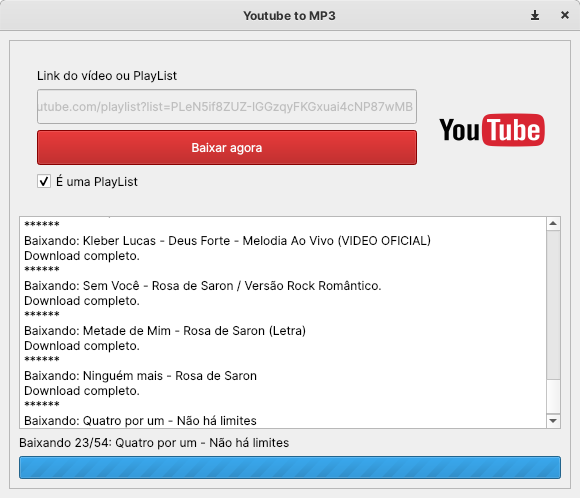
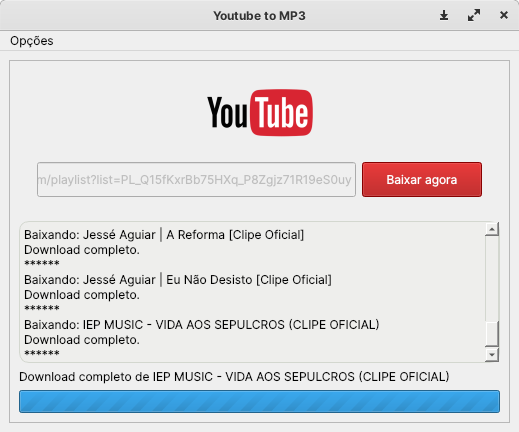
Change design

Changed region(s): [[0.0, 0.0, 1.0, 0.9931]]

diff --git a/views/ui_main.py b/views/ui_main.py
@@ -17,9 +17,9 @@ class Ui_MainWindow(object):
     def setupUi(self, MainWindow):
         if not MainWindow.objectName():
             MainWindow.setObjectName(u"MainWindow")
-        MainWindow.resize(580, 467)
-        MainWindow.setMinimumSize(QSize(580, 467))
-        MainWindow.setMaximumSize(QSize(580, 467))
+        MainWindow.resize(519, 401)
+        MainWindow.setMinimumSize(QSize(519, 200))
+        MainWindow.setMaximumSize(QSize(519, 401))
         self.actionDeveloper = QAction(MainWindow)
         self.actionDeveloper.setObjectName(u"actionDeveloper")
         self.actionExit = QAction(MainWindow)
@@ -40,60 +40,66 @@ class Ui_MainWindow(object):
         self.frame_4.setObjectName(u"frame_4")
         self.frame_4.setFrameShape(QFrame.NoFrame)
         self.frame_4.setFrameShadow(QFrame.Raised)
-        self.horizontalLayout_2 = QHBoxLayout(self.frame_4)
-        self.horizontalLayout_2.setObjectName(u"horizontalLayout_2")
-        self.frame_5 = QFrame(self.frame_4)
-        self.frame_5.setObjectName(u"frame_5")
-        self.frame_5.setFrameShape(QFrame.NoFrame)
-        self.frame_5.setFrameShadow(QFrame.Raised)
-        self.verticalLayout_4 = QVBoxLayout(self.frame_5)
-        self.verticalLayout_4.setObjectName(u"verticalLayout_4")
-        self.label = QLabel(self.frame_5)
-        self.label.setObjectName(u"label")
+        self.verticalLayout = QVBoxLayout(self.frame_4)
+        self.verticalLayout.setObjectName(u"verticalLayout")
+        self.frame_3 = QFrame(self.frame_4)
+        self.frame_3.setObjectName(u"frame_3")
+        self.frame_3.setFrameShape(QFrame.NoFrame)
+        self.frame_3.setFrameShadow(QFrame.Raised)
+        self.horizontalLayout_3 = QHBoxLayout(self.frame_3)
+        self.horizontalLayout_3.setObjectName(u"horizontalLayout_3")
+        self.horizontalSpacer = QSpacerItem(40, 20, QSizePolicy.Expanding, QSizePolicy.Minimum)
 
-        self.verticalLayout_4.addWidget(self.label)
+        self.horizontalLayout_3.addItem(self.horizontalSpacer)
 
-        self.leLink = QLineEdit(self.frame_5)
+        self.lbLogo = QLabel(self.frame_3)
+        self.lbLogo.setObjectName(u"lbLogo")
+        self.lbLogo.setMinimumSize(QSize(120, 50))
+        self.lbLogo.setMaximumSize(QSize(120, 50))
+        self.lbLogo.setPixmap(QPixmap(u"../assets/icon.png"))
+        self.lbLogo.setScaledContents(True)
+
+        self.horizontalLayout_3.addWidget(self.lbLogo)
+
+        self.horizontalSpacer_2 = QSpacerItem(40, 20, QSizePolicy.Expanding, QSizePolicy.Minimum)
+
+        self.horizontalLayout_3.addItem(self.horizontalSpacer_2)
+
+
+        self.verticalLayout.addWidget(self.frame_3)
+
+        self.frame_6 = QFrame(self.frame_4)
+        self.frame_6.setObjectName(u"frame_6")
+        self.frame_6.setFrameShape(QFrame.NoFrame)
+        self.frame_6.setFrameShadow(QFrame.Raised)
+        self.horizontalLayout_4 = QHBoxLayout(self.frame_6)
+        self.horizontalLayout_4.setObjectName(u"horizontalLayout_4")
+        self.leLink = QLineEdit(self.frame_6)
         self.leLink.setObjectName(u"leLink")
         self.leLink.setMinimumSize(QSize(0, 35))
         self.leLink.setMaximumSize(QSize(16777215, 35))
 
-        self.verticalLayout_4.addWidget(self.leLink)
+        self.horizontalLayout_4.addWidget(self.leLink)
 
-        self.btnDownload = QPushButton(self.frame_5)
+        self.btnDownload = QPushButton(self.frame_6)
         self.btnDownload.setObjectName(u"btnDownload")
-        self.btnDownload.setMinimumSize(QSize(0, 35))
-        self.btnDownload.setMaximumSize(QSize(16777215, 35))
+        self.btnDownload.setMinimumSize(QSize(120, 35))
+        self.btnDownload.setMaximumSize(QSize(120, 35))
         self.btnDownload.setCursor(QCursor(Qt.PointingHandCursor))
         self.btnDownload.setStyleSheet(u"background-color: rgb(164, 0, 0);\n"
 "color: #FFFFFF")
 
-        self.verticalLayout_4.addWidget(self.btnDownload)
-
-        self.cbPlayList = QCheckBox(self.frame_5)
-        self.cbPlayList.setObjectName(u"cbPlayList")
-        self.cbPlayList.setChecked(True)
-
-        self.verticalLayout_4.addWidget(self.cbPlayList)
+        self.horizontalLayout_4.addWidget(self.btnDownload)
 
 
-        self.horizontalLayout_2.addWidget(self.frame_5)
-
-        self.lbLogo = QLabel(self.frame_4)
-        self.lbLogo.setObjectName(u"lbLogo")
-        self.lbLogo.setMinimumSize(QSize(120, 90))
-        self.lbLogo.setMaximumSize(QSize(120, 90))
-        self.lbLogo.setPixmap(QPixmap(u"assets/icon.png"))
-        self.lbLogo.setScaledContents(True)
-
-        self.horizontalLayout_2.addWidget(self.lbLogo)
+        self.verticalLayout.addWidget(self.frame_6)
 
 
         self.verticalLayout_3.addWidget(self.frame_4)
 
         self.teResult = QTextEdit(self.frame)
         self.teResult.setObjectName(u"teResult")
-        self.teResult.setStyleSheet(u"border-radius: 100px;")
+        self.teResult.setStyleSheet(u"border: 1px solid rgb(211, 215, 207); border-radius:10px; background-color: rgb(238, 238, 236);")
         self.teResult.setReadOnly(True)
 
         self.verticalLayout_3.addWidget(self.teResult)
@@ -116,7 +122,7 @@ class Ui_MainWindow(object):
         MainWindow.setCentralWidget(self.centralwidget)
         self.menuBar = QMenuBar(MainWindow)
         self.menuBar.setObjectName(u"menuBar")
-        self.menuBar.setGeometry(QRect(0, 0, 580, 25))
+        self.menuBar.setGeometry(QRect(0, 0, 519, 25))
         self.menuOp_es = QMenu(self.menuBar)
         self.menuOp_es.setObjectName(u"menuOp_es")
         MainWindow.setMenuBar(self.menuBar)
@@ -136,10 +142,8 @@ class Ui_MainWindow(object):
         self.actionDeveloper.setText(QCoreApplication.translate("MainWindow", u"Site do Desenvolvedor", None))
         self.actionExit.setText(QCoreApplication.translate("MainWindow", u"Sair", None))
         self.actionOpenFolder.setText(QCoreApplication.translate("MainWindow", u"Abrir pasta de Download", None))
-        self.label.setText(QCoreApplication.translate("MainWindow", u"Link do v\u00eddeo ou PlayList", None))
-        self.btnDownload.setText(QCoreApplication.translate("MainWindow", u"Baixar agora", None))
-        self.cbPlayList.setText(QCoreApplication.translate("MainWindow", u"\u00c9 uma PlayList", None))
         self.lbLogo.setText("")
+        self.btnDownload.setText(QCoreApplication.translate("MainWindow", u"Baixar agora", None))
         self.lbStatus.setText(QCoreApplication.translate("MainWindow", u"...", None))
         self.menuOp_es.setTitle(QCoreApplication.translate("MainWindow", u"Op\u00e7\u00f5es", None))
     # retranslateUi

diff --git a/views/__init__.py b/views/__init__.py
@@ -11,6 +11,7 @@ import webbrowser
 class MainUI(QMainWindow, Ui_MainWindow):
 
     result =''
+    downloaded = False
 
     def __init__(self):
         super(MainUI, self).__init__()
@@ -39,7 +40,12 @@ class MainUI(QMainWindow, Ui_MainWindow):
         self.lbStatus.setVisible(loading)
         self.btnDownload.setEnabled(not loading)
         self.leLink.setEnabled(not loading)
+        self.teResult.setVisible(loading)
 
+        if (not loading):
+            self.resize(519, 200)
+        else:
+            self.resize(519, 401)
 
 
     def download(self):
@@ -68,8 +74,13 @@ class MainUI(QMainWindow, Ui_MainWindow):
 
 
     def onEnd(self):
+        self.resize(519, 401)
         QMessageBox.information(self, '...', 'Download finalizado')
-
+        self.downloaded = True
+        self.lbStatus.setText('Download finalizado')
+        self.lbStatus.setVisible(True)
+        self.teResult.setVisible(True)
+        
     def onStatus(self, tex):
         self.lbStatus.setText(tex)
 
@@ -103,12 +114,14 @@ class Worker(QThread):
             play = Playlist(playlist_url)
             play._video_regex = re.compile(r"\"url\":\"(/watch\?v=[\w-]*)")
 
-            path  = '../Downloads/'+play.title
+            path = os.path.dirname(os.path.abspath(__file__))
+            path  = path+'/../Downloads/'+play.title
 
             self.result.emit("*****\n")
             self.result.emit("Título: " + play.title+"\n")
             self.result.emit("Total de " + str(len(play.video_urls))+" vídeos "+"\n")
             self.result.emit("Pertence a: " + play.owner+"\n")
+            self.result.emit("Salvando em: " + path+"\n")
             self.result.emit("*****\n")
             self.totalVideos = len(play.video_urls)
             for url in play.video_urls:
